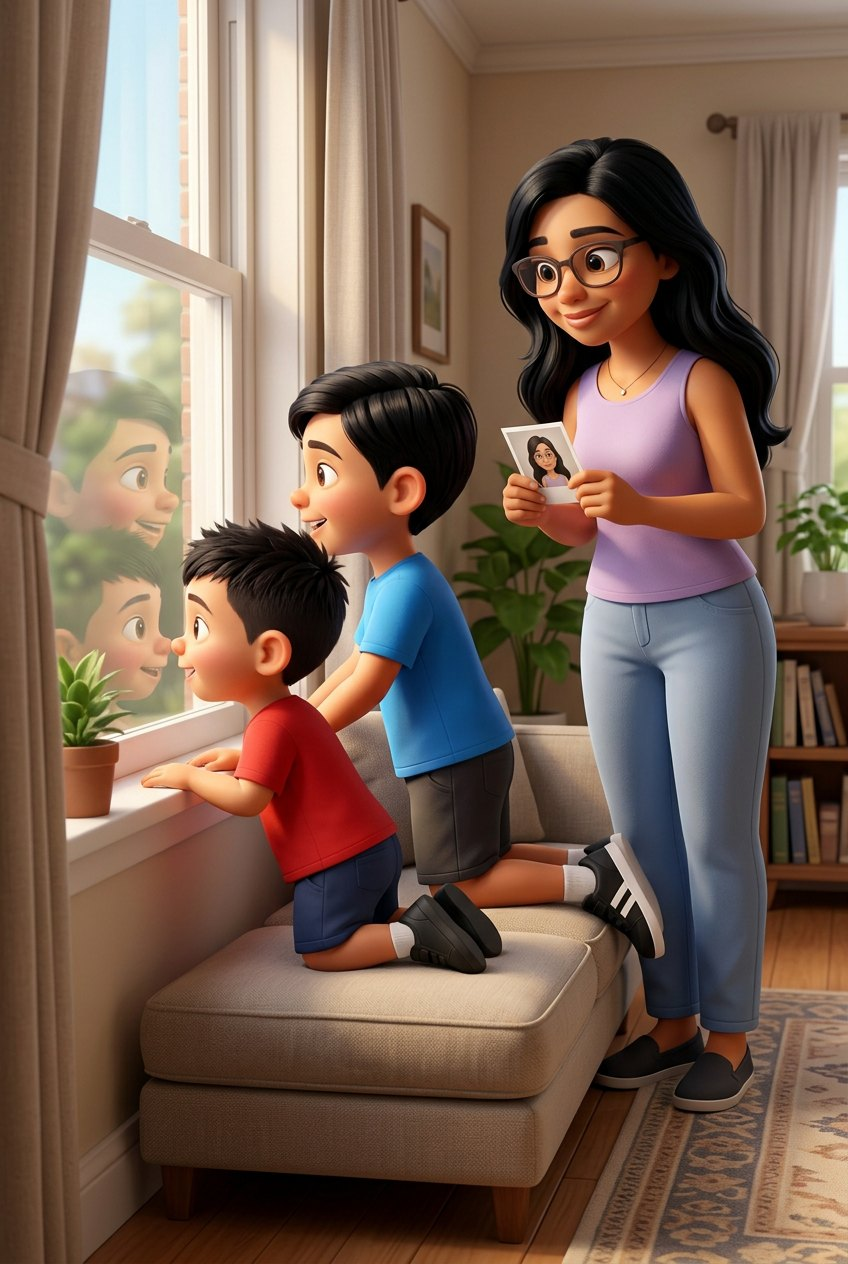
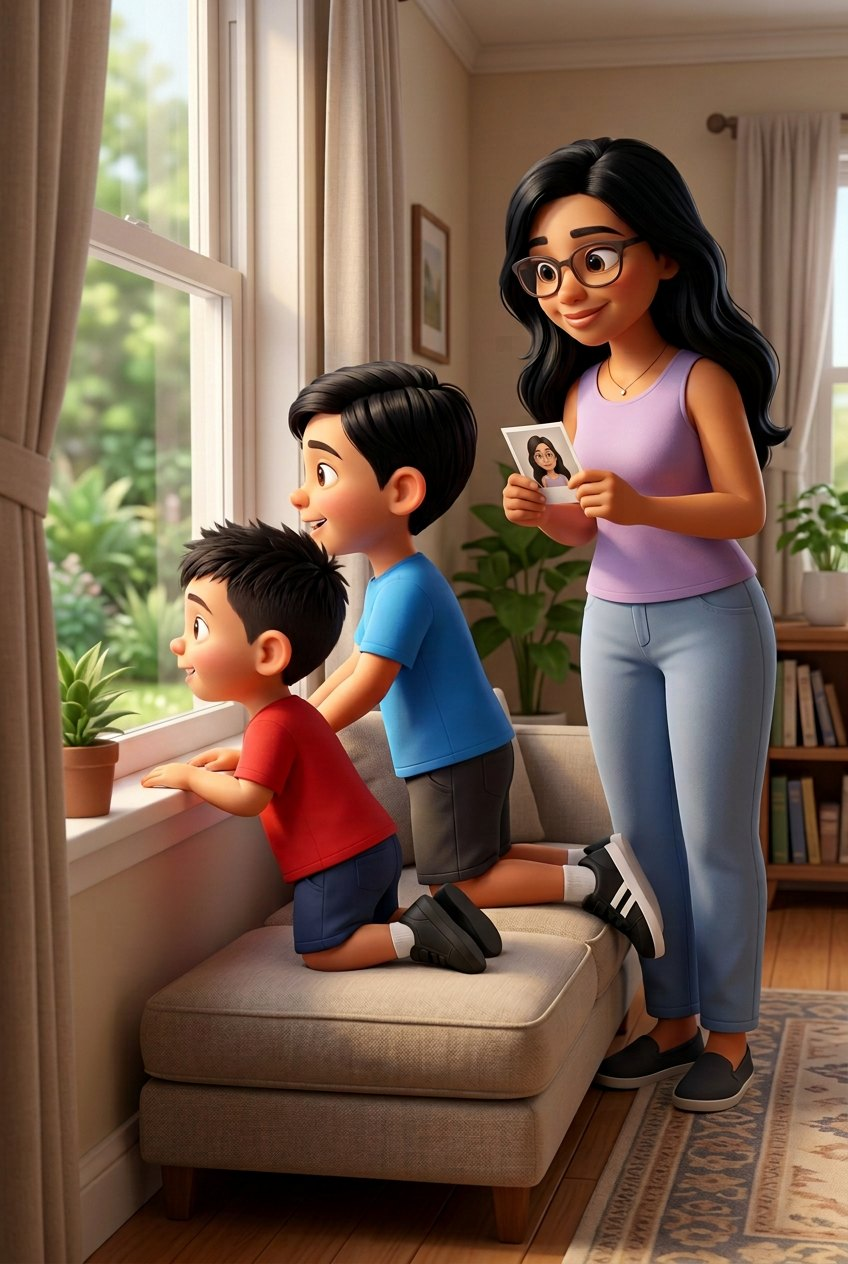
Israel: portada en PNG, nuevas láminas 20 y 21
Claude-Session: https://claude.ai/code/session_01XPFv5hi9s4Swxi4HL7K2nH

Changed region(s): [[0.0307, 0.0, 0.2453, 0.5862]]

diff --git a/index.html b/index.html
@@ -49,7 +49,7 @@ footer{text-align:center;font-size:.85rem;opacity:.75;padding:0 1rem 2rem}
   <ul class="estante">
     <li>
       <a class="cuento" href="israel-y-su-hermanito/">
-        <img src="israel-y-su-hermanito/images/portada.jpg" alt="">
+        <img src="israel-y-su-hermanito/images/portada.png" alt="">
         <strong>Israel y su hermanito</strong>
         <span>Para Israel, al terminar el Kindergarten</span>
       </a>

diff --git a/israel-y-su-hermanito/index.html b/israel-y-su-hermanito/index.html
@@ -368,7 +368,7 @@ const LIBRO = {
  "hojas": [
   {
    "tipo": "portada",
-   "img": "images/portada.jpg",
+   "img": "images/portada.png",
    "alt": "Cucu, sentado en su sillón, le lee un libro a Israel",
    "alt_en": "Cucu, sitting in his armchair, reads a book to Israel"
   },
